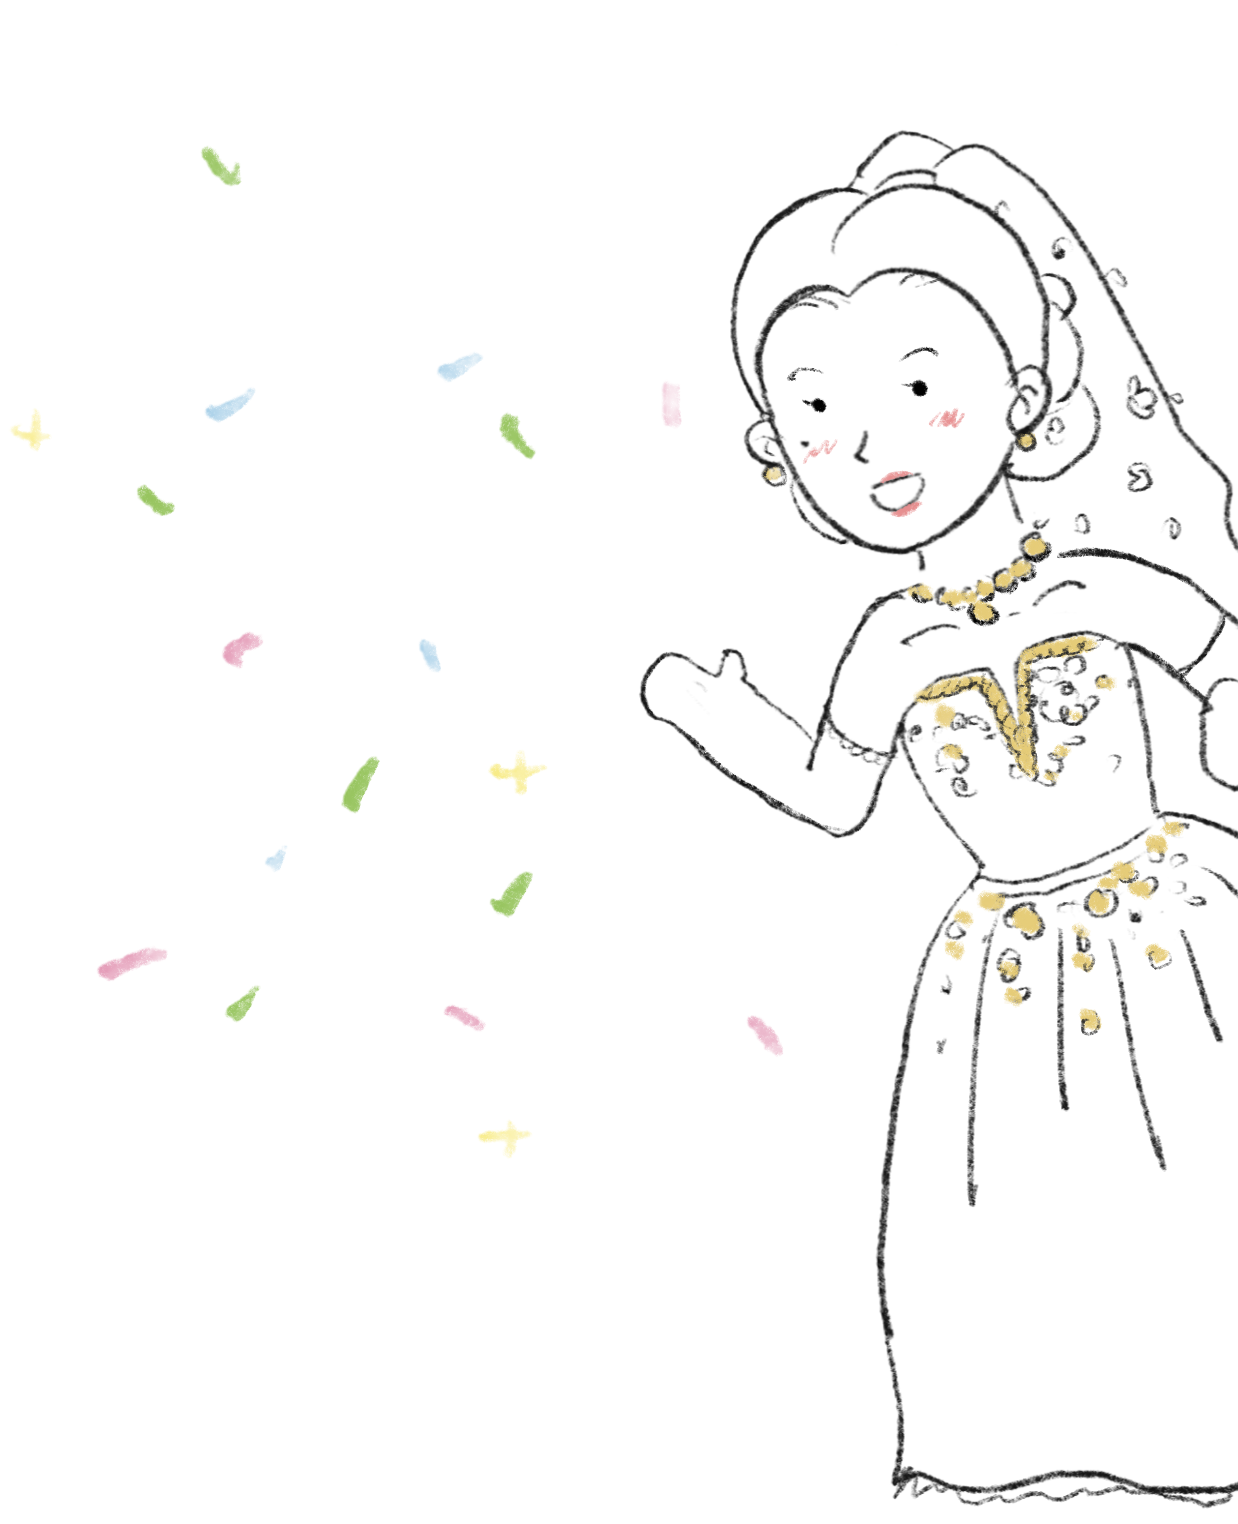
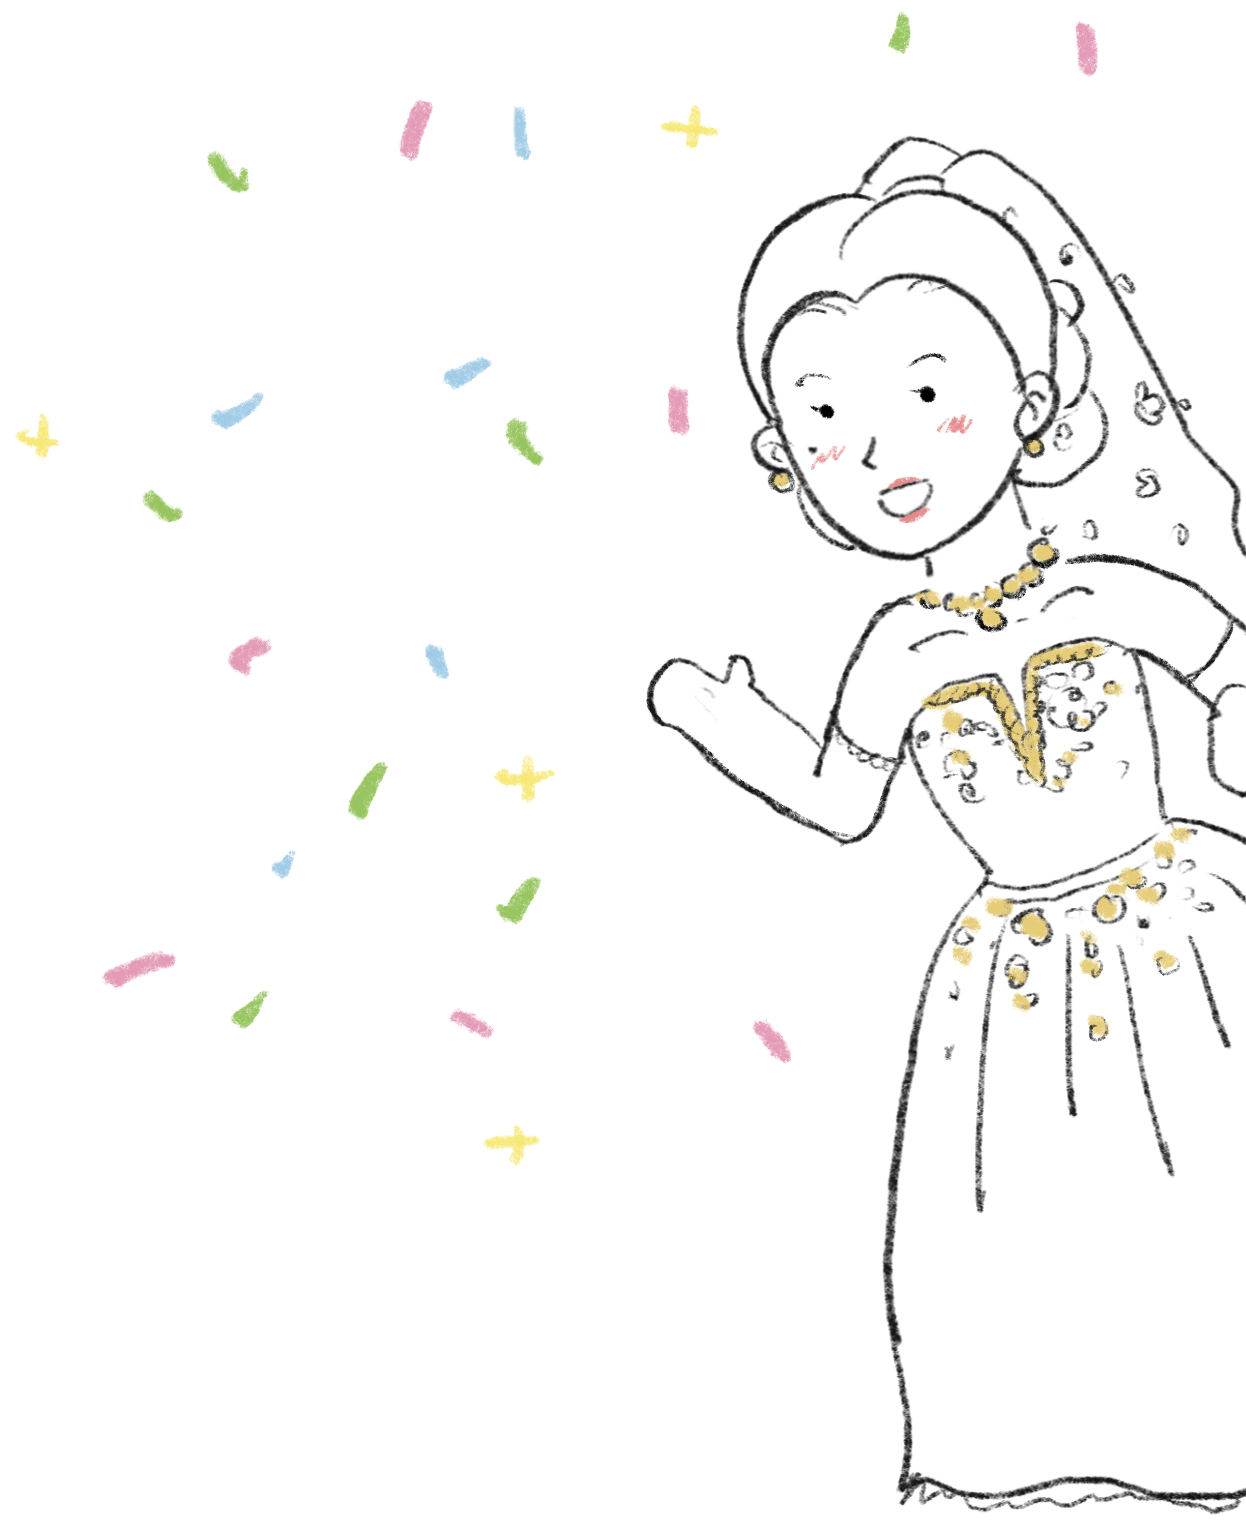
update

diff --git a/src/pages/index/components/PageHome.scss b/src/pages/index/components/PageHome.scss
@@ -30,8 +30,8 @@
   .homepage-figure {
     position: absolute;
     top: 50px;
-    width: 200px;
-    max-width: 200px;
+    width: 48%;
+    max-width: 450px;
     z-index: 1;
     pointer-events: none;
   }
@@ -46,7 +46,7 @@
 
   .homepage-figure-img {
     width: 100%;
-    max-width: 200px;
+    max-width: 450px;
     display: block;
   }
 
